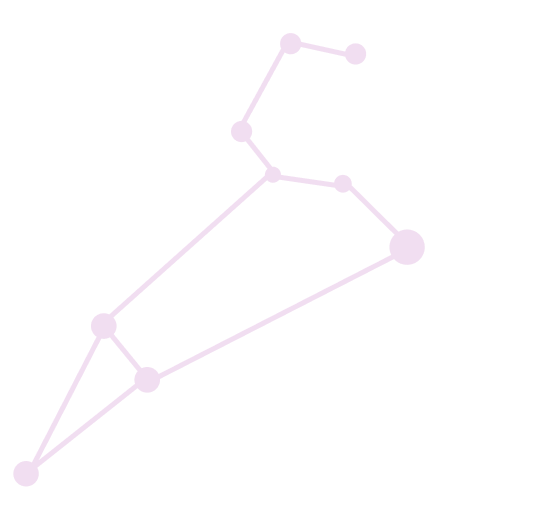
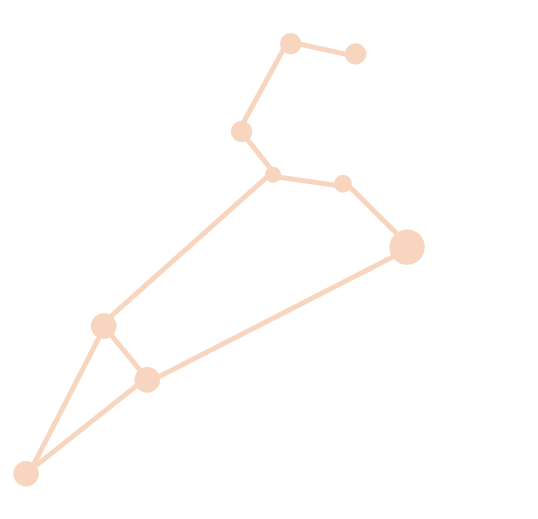
Update

diff --git a/main-style.css b/main-style.css
@@ -5,7 +5,7 @@ body {
 
 a {
     text-decoration:none;
-    color:#dabbdb;
+    color:#ebe4de;
     text-align:center;
     font-family:serif;
 }
@@ -24,7 +24,7 @@ nav {
 }
 .menu-items {
     display: flex;
-    font-size:x-large;
+    font-size:large;
     gap:50px;
     margin-right:30px;
 }
@@ -35,8 +35,8 @@ nav {
     margin-bottom:50px;
     margin-left:30px;
     font-size:large;
-    color:#ebdeeb;
-    text-align:left;
+    color:#ebe4de;
+    text-align:justify;
     font-family:sans-serif;
     opacity: 0;
     animation: 4s fadeIn;
@@ -49,8 +49,8 @@ footer {
     flex-direction:row;
     align-items:center;
     justify-content:center;
-    background-color:#241f24;
-    color:#766476;
+    background-color:#181716;
+    color:#564c45;
     font-family:sans-serif;
 }
 

diff --git a/details.html b/details.html
@@ -20,7 +20,7 @@
                 <a href="main.html">Home</a>
             </div>
             <div class="animation-button">
-                <a href="index.html">Loading</a>
+                <a href="index.html">Loading Screen</a>
             </div>
         </div>
     </nav>
@@ -43,7 +43,7 @@
               In astrology, Leo is the fifth sign of the zodiac, considered as governing the period from about July 23 to about August 22.
               <br><br>
               Its representation as a lion is usually linked with the Nemean lion slain by Heracles.
-              <br><br>
+              <br><br><br><br>
               Element:    Fire
               <br><br>
               Ruling Planet:    Sun

diff --git a/main.html b/main.html
@@ -20,7 +20,7 @@
                 <a href="main.html">Home</a>
             </div>
             <div class="animation-button">
-                <a href="index.html">Loading</a>
+                <a href="index.html">Loading Screen</a>
             </div>
         </div>
       </nav>
@@ -30,7 +30,7 @@
         <br><br>
         Zodiac signs are the twelve 30 degree sectors that make up Earth's 360-degree orbit around the Sun.
         <br><br>
-        Flip the cards to discover the signs.
+        Flip the cards to discover the signs, click to learn more.
       </p>
       <div class="row-one-cards">
         <div class="individual-card">

diff --git a/details-style.css b/details-style.css
@@ -5,7 +5,7 @@ body {
 
 a {
     text-decoration:none;
-    color:#dabbdb;
+    color:#ebe4de;
     text-align:center;
     font-family:serif;
 }
@@ -13,12 +13,12 @@ a {
 p,
 h3 {
     text-decoration:none;
-    color:#dabbdb;
+    color:#ebe4de;
     font-family:sans-serif;
 }
 
 h1 {
-    color:#dabbdb;
+    color:#f3c59c;
 }
 
 nav {
@@ -35,7 +35,7 @@ nav {
 }
 .menu-items {
     display: flex;
-    font-size:x-large;
+    font-size:large;
     gap:50px;
     margin-right:30px;
 }
